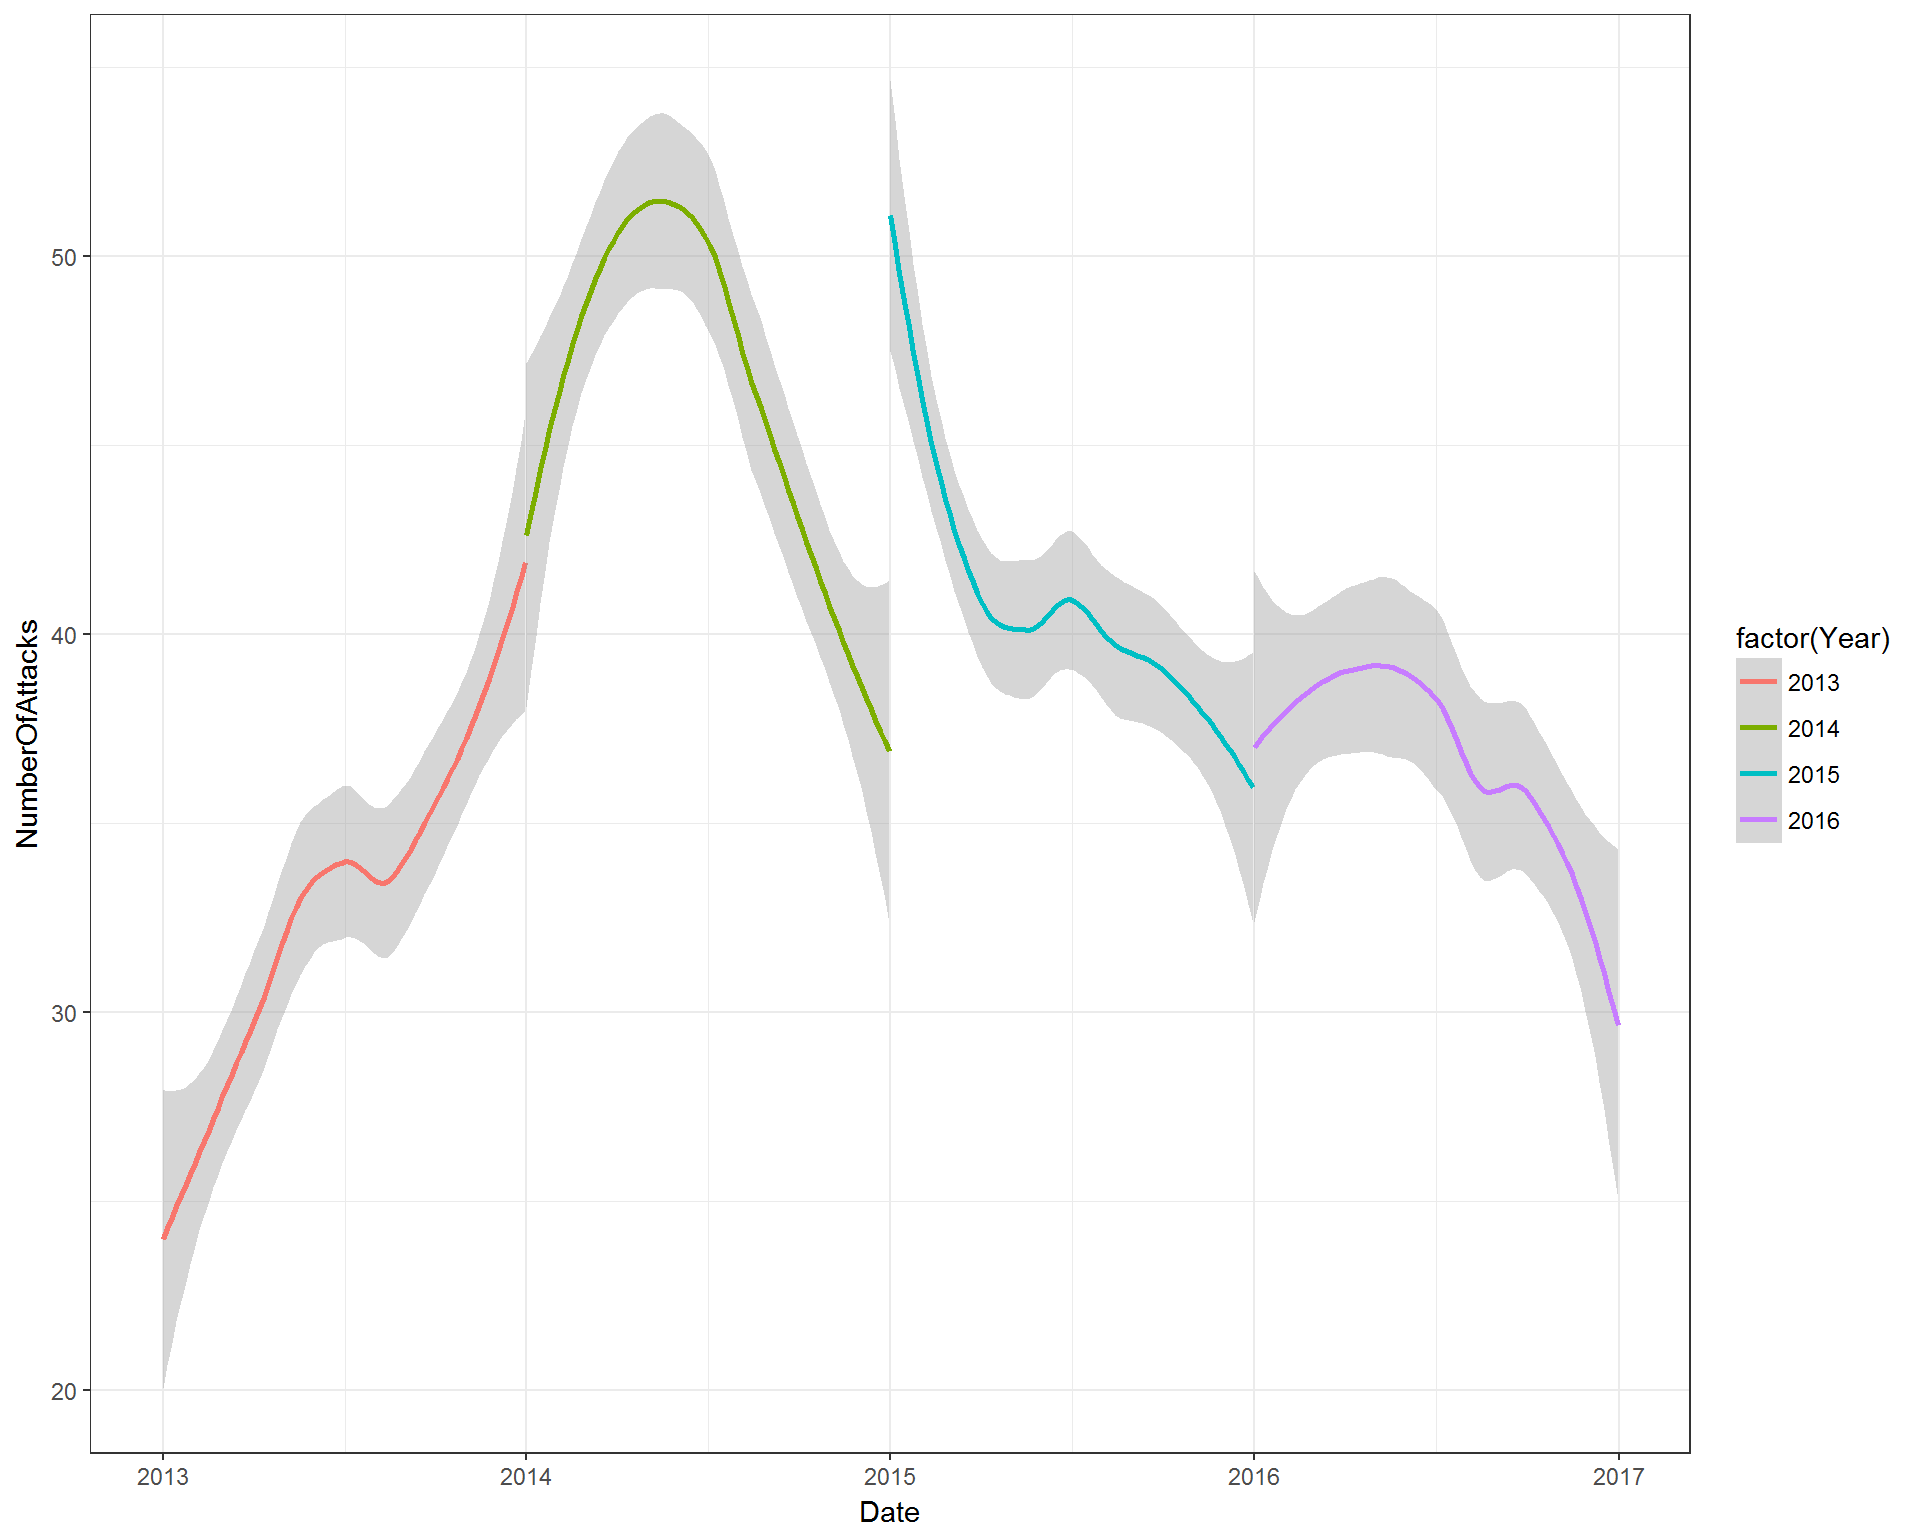
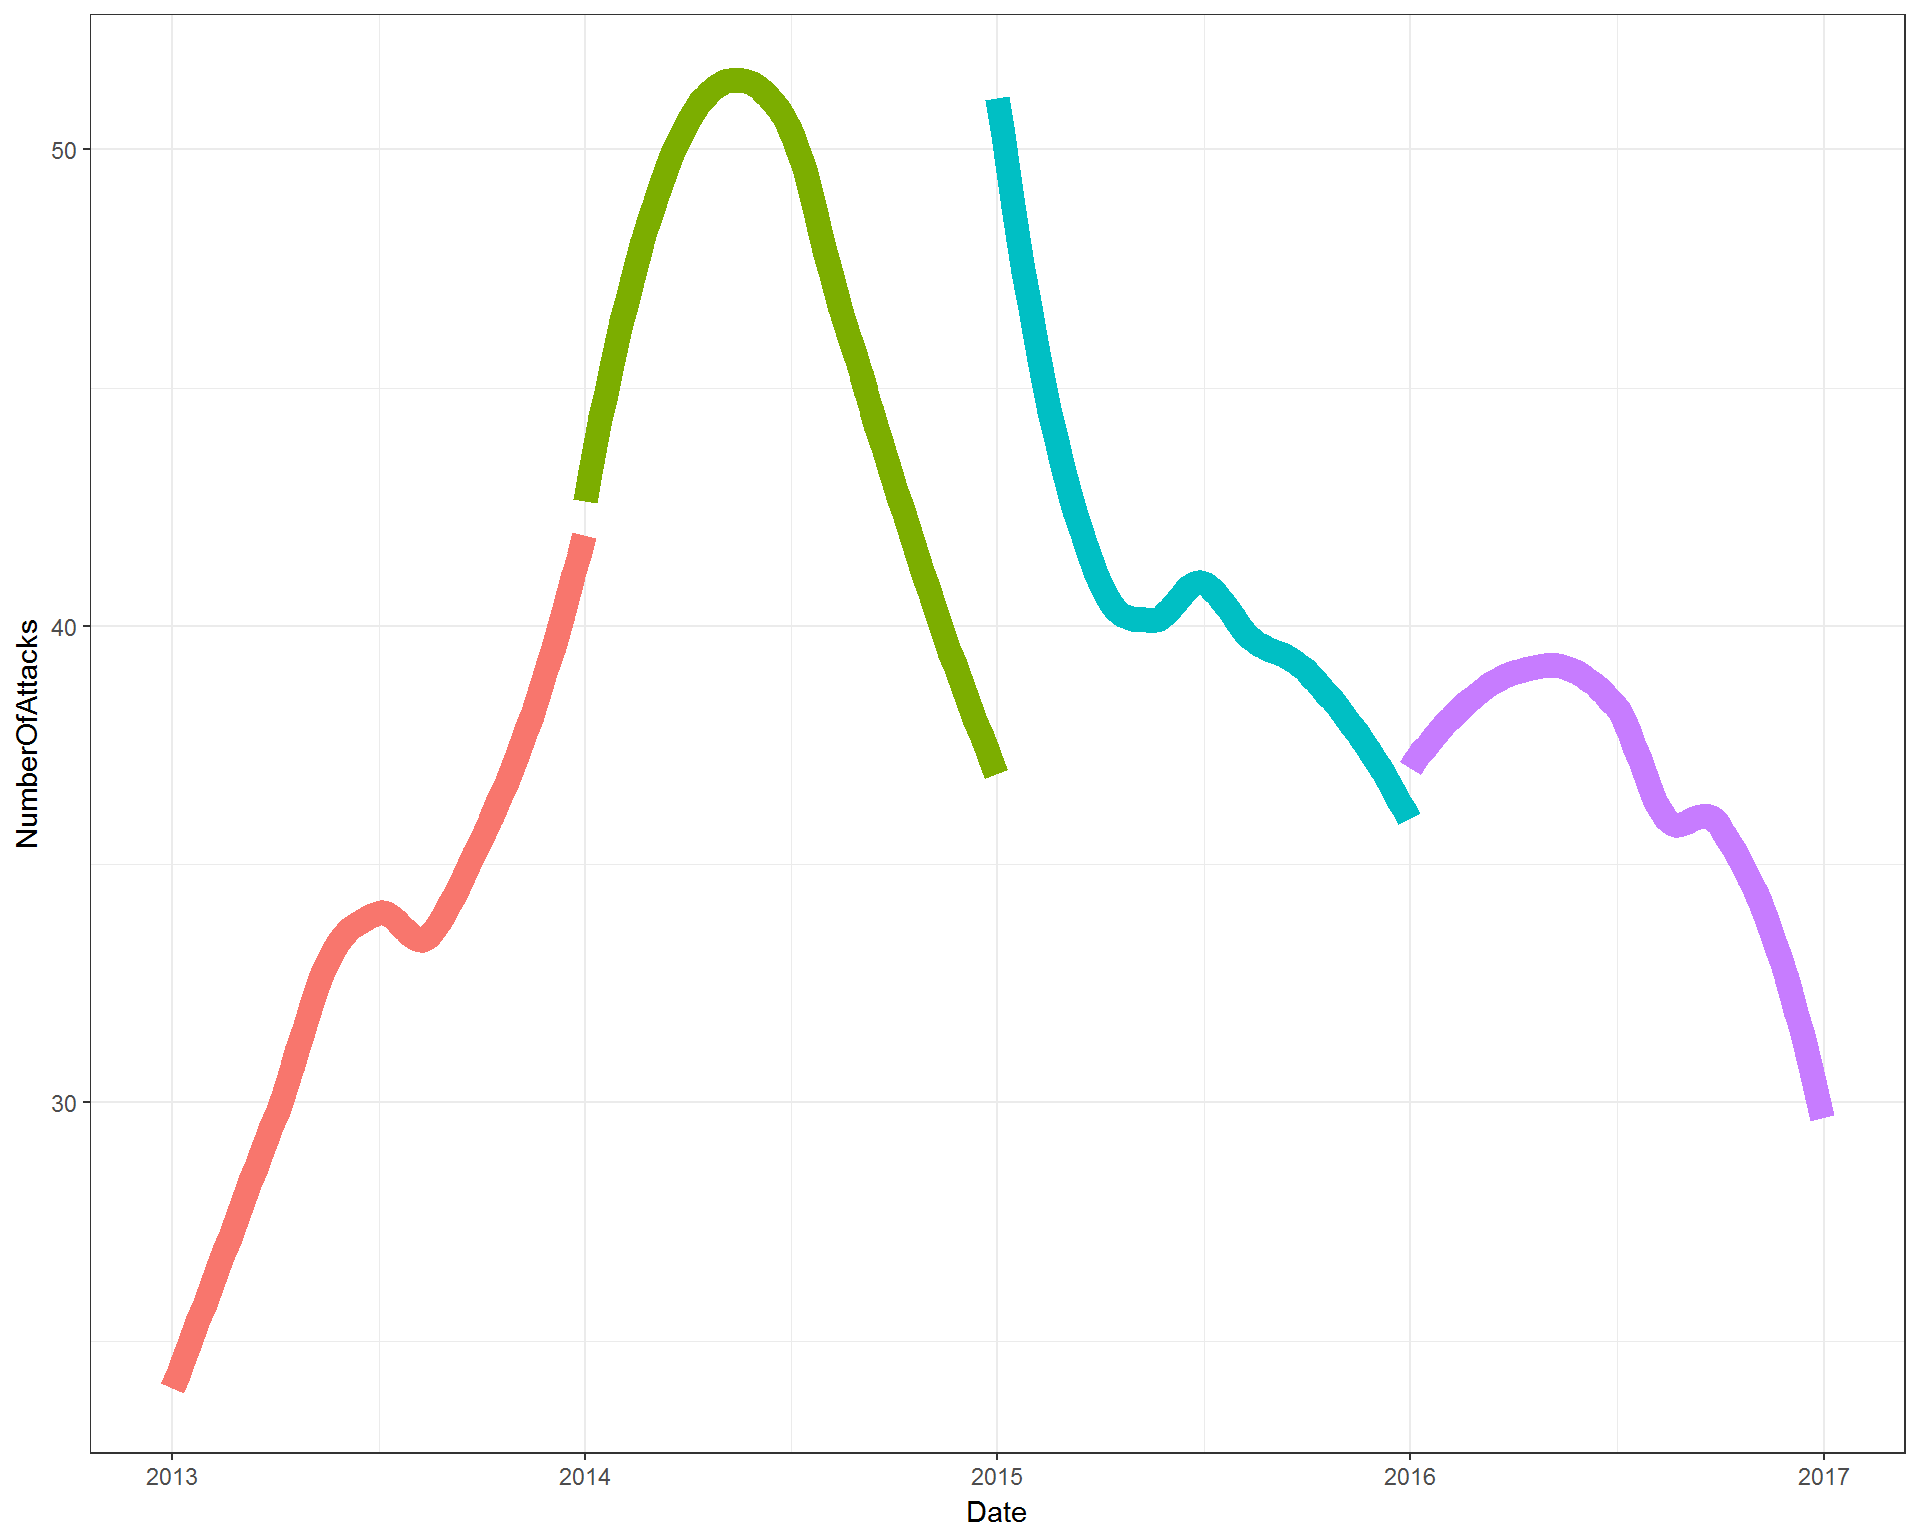
removed legend and made lines thicker

diff --git a/_sessionTerror.html b/_sessionTerror.html
@@ -9,11 +9,9 @@
 <meta name="generator" content="pandoc" />
 
 
-<meta name="author" content="Christine Iyer" />
 
-<meta name="date" content="2017-10-15" />
 
-<title>Terrorist Attacks</title>
+<title>Terrorist Attacks by Year</title>
 
 <script src="site_libs/jquery-1.11.3/jquery.min.js"></script>
 <meta name="viewport" content="width=device-width, initial-scale=1" />
@@ -196,7 +194,7 @@ $(document).ready(function () {
   <a href="Tennis.html">Tennis</a>
 </li>
 <li>
-  <a href="Terror.html"></a>
+  <a href="Terror.html">Terrorism</a>
 </li>
       </ul>
       <ul class="nav navbar-nav navbar-right">
@@ -210,14 +208,12 @@ $(document).ready(function () {
 
 
 
-<h1 class="title toc-ignore">Terrorist Attacks</h1>
-<h4 class="author"><em>Christine Iyer</em></h4>
-<h4 class="date"><em>October 15, 2017</em></h4>
+<h1 class="title toc-ignore">Terrorist Attacks by Year</h1>
 
 </div>
 
 
-<p><img src="_sessionTerror_files/figure-html/unnamed-chunk-2-1.png" width="960" /><img src="_sessionTerror_files/figure-html/unnamed-chunk-2-2.png" width="960" /></p>
+<p><img src="_sessionTerror_files/figure-html/unnamed-chunk-2-1.png" width="960" /></p>
 
 
 
